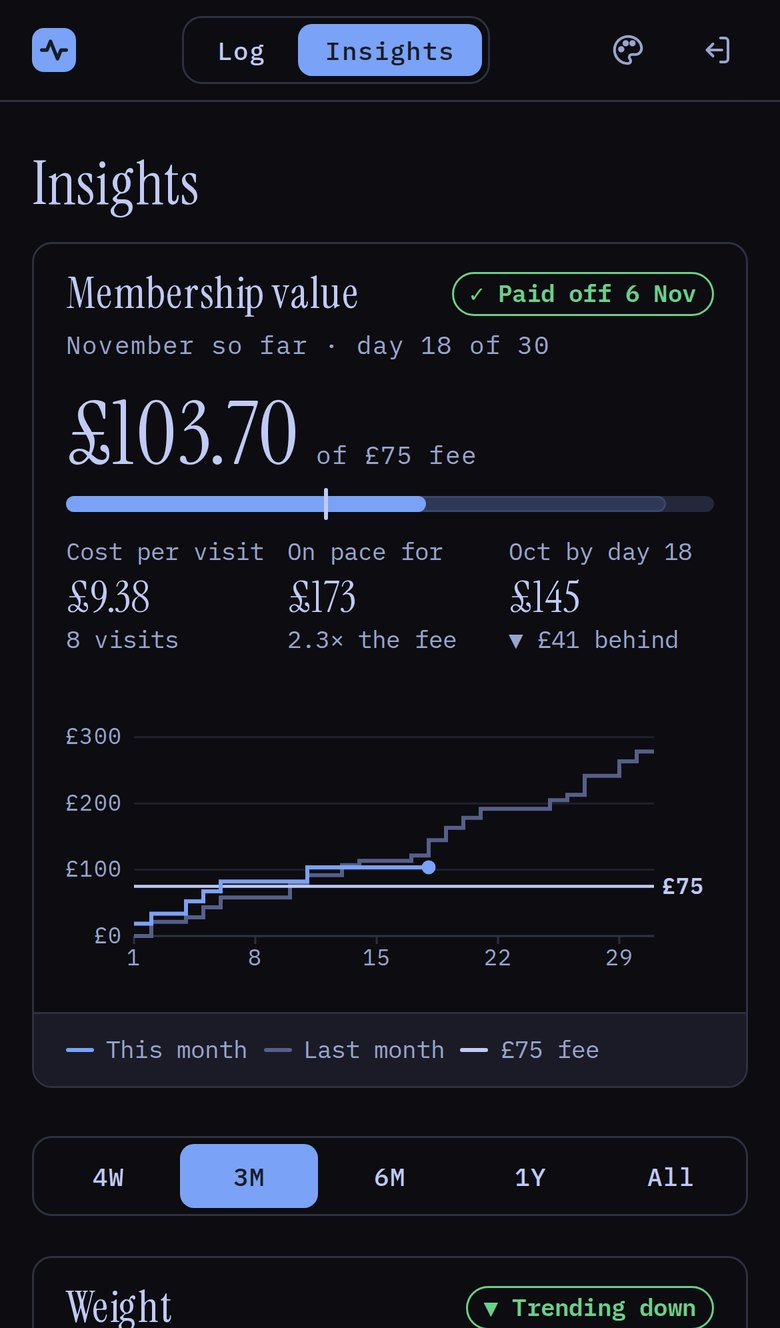
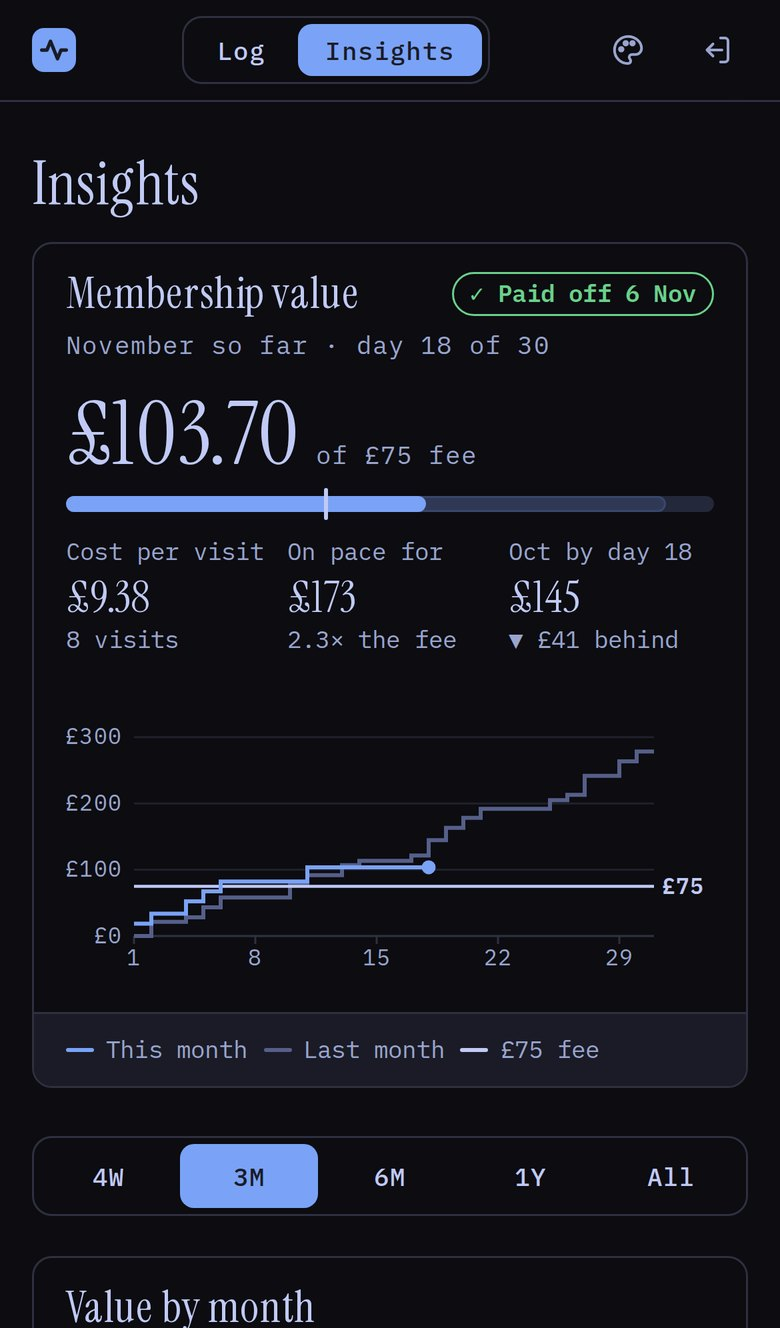
Pulseboard post: drop weight, show workout mix, value by month, and heatmap

Changed region(s): [[0.0923, 0.9571, 0.4, 1.0], [0.6154, 0.9571, 0.9231, 1.0], [0.5846, 0.988, 0.6154, 1.0]]

diff --git a/docs/posts/pulseboard/index.html b/docs/posts/pulseboard/index.html
@@ -7,7 +7,7 @@
     <link rel="preconnect" href="https://fonts.googleapis.com">
     <link rel="preconnect" href="https://fonts.gstatic.com" crossorigin>
     <link rel="stylesheet" href="https://fonts.googleapis.com/css2?family=Inter:wght@400;500;600;700&family=Inter+Tight:wght@600;700&family=JetBrains+Mono:wght@400;500&display=swap">
-    <link rel="stylesheet" href="/style.css?v=1795010357829">
+    <link rel="stylesheet" href="/style.css?v=1795010738690">
     <script type="module">
         import mermaid from "https://cdn.jsdelivr.net/npm/mermaid@11.4.1/dist/mermaid.esm.min.mjs";
 
@@ -92,28 +92,28 @@
             </header>
             <div class="post-body">
                 <p class="lede">I pay for a gym membership every month, and I wanted a straight answer to one question: am I actually getting my money's worth? So I built a small app to log every session and tell me.</p>
-<p>Pulseboard is a workout tracker made for exactly one person: me. I log a gym session, a swim, or a sauna in a couple of taps, plus the occasional weigh-in, and it shows me how much value I've had from the membership this month and how my weight is trending. It started life in June as a quick weekend project and has been rebuilt twice since, most recently with Claude Code doing most of the typing.</p>
+<p>Pulseboard is a workout tracker made for exactly one person: me. I log a gym session, a swim, or a sauna in a couple of taps, and it shows me how much value I've had from the membership this month, what mix of sessions I'm doing, and how often I actually go. It started life in June as a quick weekend project and has been rebuilt twice since, most recently with Claude Code doing most of the typing.</p>
 <div class="phones">
   <figure class="shot">
-    <img src="/images/pulseboard/log-paper.jpg" width="780" height="1328" alt="The Log screen in the Paper theme: this month's workouts, value, and weigh-ins at the top, then a form to log a new workout with buttons for each type of session and its price.">
+    <img src="/images/pulseboard/log-paper.jpg" width="780" height="1328" alt="The Log screen in the Paper theme: this month's workouts and value at the top, then a form to log a new workout with buttons for each type of session and its price.">
   </figure>
   <figure class="shot">
     <img src="/images/pulseboard/value-paper.jpg" width="780" height="922" loading="lazy" alt="The Membership value card: £103.70 of value against a £75 fee, marked as paid off on 6 November, with a chart of this month against last month.">
   </figure>
   <figure class="shot">
-    <img src="/images/pulseboard/weight-paper-night.jpg" width="780" height="1031" loading="lazy" alt="The Weight card in the dark Paper Night theme: a trend line through weekly weigh-ins, the rate per week, and an estimate of when the goal will be reached.">
+    <img src="/images/pulseboard/mix-paper-night.jpg" width="780" height="834" loading="lazy" alt="The Value by month card in the dark Paper Night theme: a stacked bar for each month split into gym, lido, pool, and sauna, with a line at the £75 fee.">
   </figure>
 </div>
-<p class="caption">Logging a session, the membership maths, and the weight trend. Every screenshot here uses made-up demo data.</p>
+<p class="caption">Logging a session, the membership maths, and the mix of sessions each month. Every screenshot here uses made-up demo data.</p>
 <h2>The idea: price every visit 💷</h2>
 <p>The trick that makes the whole thing work is giving every session a price: what it would have cost me to pay as I go. A gym visit is £15, a pool swim is £6.80, a lido swim is £6.40, and a sauna is £18.70. Add those up over a month and compare the total to the membership fee, and you get a very honest number.</p>
 <p>That turns &quot;I should go more&quot; into something I can see. The Membership value card shows how much I've had back this month, the day I paid it off, my cost per visit, and whether I'm ahead of or behind last month by the same day.</p>
-<p>The second goal is weight. Weigh-ins are noisy day to day, so the app draws a smoothed trend line through them and works out the rate per week from the last four weeks. From that it estimates when I'll hit my goal at the current pace.</p>
+<p>The other cards look at the longer run. Value by month stacks each month's sessions by type, so I can see the mix shift between gym, pool, lido, and sauna, with a line at the fee. Month by month adds visits, cost per visit, and how many days I was active, and a heatmap shows every day of the last few months at a glance.</p>
 <h2>Version one: quick, public, and slow 🐌</h2>
 <p>The first version was a FastAPI app with a Supabase database, charts drawn with Plotly, and hosting on Vercel's free tier. It did the job, but it had two problems:</p>
 <ul>
 <li><strong>It was slow to wake up.</strong> Vercel runs apps like this as serverless functions, so after a quiet spell the first visit took about eight seconds. That's a long time to stand at a gym reception holding your phone.</li>
-<li><strong>It had no sign-in.</strong> Anyone with the address could see my data, which for health data isn't great.</li>
+<li><strong>It had no sign-in.</strong> Anyone with the address could see my data, which for personal data isn't great.</li>
 </ul>
 <h2>Moving it onto my own server 🖥</h2>
 <p>I already run a small server for my notes app: a free virtual machine on Oracle Cloud's Always Free tier, with two ARM cores and 12 GB of memory. So Pulseboard moved in next door.</p>
@@ -172,7 +172,7 @@
   </figure>
 </div>
 <h2>Next: the Oura ring 💍</h2>
-<p>We've ordered an Oura ring and we're waiting for it to arrive. Once it does, I want Pulseboard to pull in my daily numbers from Oura's official API, so they sit next to my workouts:</p>
+<p>I've ordered an Oura ring and I'm waiting for it to arrive. Once it does, I want Pulseboard to pull in my daily numbers from Oura's official API, so they sit next to my workouts:</p>
 <ul>
 <li><strong>A Today screen</strong> with my readiness score and a simple suggestion, like &quot;good day to push&quot; or &quot;take it easy&quot;.</li>
 <li><strong>Sleep, HRV, and resting heart rate</strong>, so I can see how training and recovery line up over time.</li>
@@ -191,6 +191,6 @@
 
     <footer class="site-footer wrap">Built with Eleventy. Hosted on GitHub Pages.</footer>
 
-    <script src="/script.js?v=1795010357829"></script>
+    <script src="/script.js?v=1795010738690"></script>
 </body>
 </html>

diff --git a/docs/python-visualiser/index.html b/docs/python-visualiser/index.html
@@ -7,7 +7,7 @@
     <link rel="preconnect" href="https://fonts.googleapis.com">
     <link rel="preconnect" href="https://fonts.gstatic.com" crossorigin>
     <link rel="stylesheet" href="https://fonts.googleapis.com/css2?family=Inter:wght@400;500;600;700&family=Inter+Tight:wght@600;700&family=JetBrains+Mono:wght@400;500&display=swap">
-    <link rel="stylesheet" href="/style.css?v=1795010357829">
+    <link rel="stylesheet" href="/style.css?v=1795010738690">
     <script type="module">
         import mermaid from "https://cdn.jsdelivr.net/npm/mermaid@11.4.1/dist/mermaid.esm.min.mjs";
 
@@ -139,13 +139,13 @@
 </section>
 
 <script src="https://cdn.jsdelivr.net/pyodide/v0.26.4/full/pyodide.js"></script>
-<script src="/visualiser.js?v=1795010357829"></script>
+<script src="/visualiser.js?v=1795010738690"></script>
 
     
     </main>
 
     <footer class="site-footer wrap wrap-wide">Built with Eleventy. Hosted on GitHub Pages.</footer>
 
-    <script src="/script.js?v=1795010357829"></script>
+    <script src="/script.js?v=1795010738690"></script>
 </body>
 </html>

diff --git a/docs/posts/building-control-room/index.html b/docs/posts/building-control-room/index.html
@@ -7,7 +7,7 @@
     <link rel="preconnect" href="https://fonts.googleapis.com">
     <link rel="preconnect" href="https://fonts.gstatic.com" crossorigin>
     <link rel="stylesheet" href="https://fonts.googleapis.com/css2?family=Inter:wght@400;500;600;700&family=Inter+Tight:wght@600;700&family=JetBrains+Mono:wght@400;500&display=swap">
-    <link rel="stylesheet" href="/style.css?v=1795010357829">
+    <link rel="stylesheet" href="/style.css?v=1795010738690">
     <script type="module">
         import mermaid from "https://cdn.jsdelivr.net/npm/mermaid@11.4.1/dist/mermaid.esm.min.mjs";
 
@@ -301,6 +301,6 @@ document.querySelectorAll('.theme-gallery').forEach(function (g) {
 
     <footer class="site-footer wrap">Built with Eleventy. Hosted on GitHub Pages.</footer>
 
-    <script src="/script.js?v=1795010357829"></script>
+    <script src="/script.js?v=1795010738690"></script>
 </body>
 </html>

diff --git a/docs/index.html b/docs/index.html
@@ -7,7 +7,7 @@
     <link rel="preconnect" href="https://fonts.googleapis.com">
     <link rel="preconnect" href="https://fonts.gstatic.com" crossorigin>
     <link rel="stylesheet" href="https://fonts.googleapis.com/css2?family=Inter:wght@400;500;600;700&family=Inter+Tight:wght@600;700&family=JetBrains+Mono:wght@400;500&display=swap">
-    <link rel="stylesheet" href="/style.css?v=1795010357829">
+    <link rel="stylesheet" href="/style.css?v=1795010738690">
     <script type="module">
         import mermaid from "https://cdn.jsdelivr.net/npm/mermaid@11.4.1/dist/mermaid.esm.min.mjs";
 
@@ -157,6 +157,6 @@
 
     <footer class="site-footer wrap">Built with Eleventy. Hosted on GitHub Pages.</footer>
 
-    <script src="/script.js?v=1795010357829"></script>
+    <script src="/script.js?v=1795010738690"></script>
 </body>
 </html>

diff --git a/docs/posts/metric-trees/index.html b/docs/posts/metric-trees/index.html
@@ -7,7 +7,7 @@
     <link rel="preconnect" href="https://fonts.googleapis.com">
     <link rel="preconnect" href="https://fonts.gstatic.com" crossorigin>
     <link rel="stylesheet" href="https://fonts.googleapis.com/css2?family=Inter:wght@400;500;600;700&family=Inter+Tight:wght@600;700&family=JetBrains+Mono:wght@400;500&display=swap">
-    <link rel="stylesheet" href="/style.css?v=1795010357829">
+    <link rel="stylesheet" href="/style.css?v=1795010738690">
     <script type="module">
         import mermaid from "https://cdn.jsdelivr.net/npm/mermaid@11.4.1/dist/mermaid.esm.min.mjs";
 
@@ -189,6 +189,6 @@
 
     <footer class="site-footer wrap">Built with Eleventy. Hosted on GitHub Pages.</footer>
 
-    <script src="/script.js?v=1795010357829"></script>
+    <script src="/script.js?v=1795010738690"></script>
 </body>
 </html>

diff --git a/docs/posts/week-one-porto/index.html b/docs/posts/week-one-porto/index.html
@@ -7,7 +7,7 @@
     <link rel="preconnect" href="https://fonts.googleapis.com">
     <link rel="preconnect" href="https://fonts.gstatic.com" crossorigin>
     <link rel="stylesheet" href="https://fonts.googleapis.com/css2?family=Inter:wght@400;500;600;700&family=Inter+Tight:wght@600;700&family=JetBrains+Mono:wght@400;500&display=swap">
-    <link rel="stylesheet" href="/style.css?v=1795010357829">
+    <link rel="stylesheet" href="/style.css?v=1795010738690">
     <script type="module">
         import mermaid from "https://cdn.jsdelivr.net/npm/mermaid@11.4.1/dist/mermaid.esm.min.mjs";
 
@@ -146,6 +146,6 @@
 
     <footer class="site-footer wrap">Built with Eleventy. Hosted on GitHub Pages.</footer>
 
-    <script src="/script.js?v=1795010357829"></script>
+    <script src="/script.js?v=1795010738690"></script>
 </body>
 </html>

diff --git a/docs/posts/week-three-lisbon/index.html b/docs/posts/week-three-lisbon/index.html
@@ -7,7 +7,7 @@
     <link rel="preconnect" href="https://fonts.googleapis.com">
     <link rel="preconnect" href="https://fonts.gstatic.com" crossorigin>
     <link rel="stylesheet" href="https://fonts.googleapis.com/css2?family=Inter:wght@400;500;600;700&family=Inter+Tight:wght@600;700&family=JetBrains+Mono:wght@400;500&display=swap">
-    <link rel="stylesheet" href="/style.css?v=1795010357829">
+    <link rel="stylesheet" href="/style.css?v=1795010738690">
     <script type="module">
         import mermaid from "https://cdn.jsdelivr.net/npm/mermaid@11.4.1/dist/mermaid.esm.min.mjs";
 
@@ -101,6 +101,6 @@
 
     <footer class="site-footer wrap">Built with Eleventy. Hosted on GitHub Pages.</footer>
 
-    <script src="/script.js?v=1795010357829"></script>
+    <script src="/script.js?v=1795010738690"></script>
 </body>
 </html>

diff --git a/docs/posts/week-two-coimbra/index.html b/docs/posts/week-two-coimbra/index.html
@@ -7,7 +7,7 @@
     <link rel="preconnect" href="https://fonts.googleapis.com">
     <link rel="preconnect" href="https://fonts.gstatic.com" crossorigin>
     <link rel="stylesheet" href="https://fonts.googleapis.com/css2?family=Inter:wght@400;500;600;700&family=Inter+Tight:wght@600;700&family=JetBrains+Mono:wght@400;500&display=swap">
-    <link rel="stylesheet" href="/style.css?v=1795010357829">
+    <link rel="stylesheet" href="/style.css?v=1795010738690">
     <script type="module">
         import mermaid from "https://cdn.jsdelivr.net/npm/mermaid@11.4.1/dist/mermaid.esm.min.mjs";
 
@@ -146,6 +146,6 @@
 
     <footer class="site-footer wrap">Built with Eleventy. Hosted on GitHub Pages.</footer>
 
-    <script src="/script.js?v=1795010357829"></script>
+    <script src="/script.js?v=1795010738690"></script>
 </body>
 </html>

diff --git a/docs/posts/window-functions/index.html b/docs/posts/window-functions/index.html
@@ -7,7 +7,7 @@
     <link rel="preconnect" href="https://fonts.googleapis.com">
     <link rel="preconnect" href="https://fonts.gstatic.com" crossorigin>
     <link rel="stylesheet" href="https://fonts.googleapis.com/css2?family=Inter:wght@400;500;600;700&family=Inter+Tight:wght@600;700&family=JetBrains+Mono:wght@400;500&display=swap">
-    <link rel="stylesheet" href="/style.css?v=1795010357829">
+    <link rel="stylesheet" href="/style.css?v=1795010738690">
     <script type="module">
         import mermaid from "https://cdn.jsdelivr.net/npm/mermaid@11.4.1/dist/mermaid.esm.min.mjs";
 
@@ -750,6 +750,6 @@
 
     <footer class="site-footer wrap">Built with Eleventy. Hosted on GitHub Pages.</footer>
 
-    <script src="/script.js?v=1795010357829"></script>
+    <script src="/script.js?v=1795010738690"></script>
 </body>
 </html>

diff --git a/docs/tags/data-concepts/index.html b/docs/tags/data-concepts/index.html
@@ -7,7 +7,7 @@
     <link rel="preconnect" href="https://fonts.googleapis.com">
     <link rel="preconnect" href="https://fonts.gstatic.com" crossorigin>
     <link rel="stylesheet" href="https://fonts.googleapis.com/css2?family=Inter:wght@400;500;600;700&family=Inter+Tight:wght@600;700&family=JetBrains+Mono:wght@400;500&display=swap">
-    <link rel="stylesheet" href="/style.css?v=1795010357829">
+    <link rel="stylesheet" href="/style.css?v=1795010738690">
     <script type="module">
         import mermaid from "https://cdn.jsdelivr.net/npm/mermaid@11.4.1/dist/mermaid.esm.min.mjs";
 
@@ -102,6 +102,6 @@
 
     <footer class="site-footer wrap">Built with Eleventy. Hosted on GitHub Pages.</footer>
 
-    <script src="/script.js?v=1795010357829"></script>
+    <script src="/script.js?v=1795010738690"></script>
 </body>
 </html>

diff --git a/docs/tags/projects/index.html b/docs/tags/projects/index.html
@@ -7,7 +7,7 @@
     <link rel="preconnect" href="https://fonts.googleapis.com">
     <link rel="preconnect" href="https://fonts.gstatic.com" crossorigin>
     <link rel="stylesheet" href="https://fonts.googleapis.com/css2?family=Inter:wght@400;500;600;700&family=Inter+Tight:wght@600;700&family=JetBrains+Mono:wght@400;500&display=swap">
-    <link rel="stylesheet" href="/style.css?v=1795010357829">
+    <link rel="stylesheet" href="/style.css?v=1795010738690">
     <script type="module">
         import mermaid from "https://cdn.jsdelivr.net/npm/mermaid@11.4.1/dist/mermaid.esm.min.mjs";
 
@@ -109,6 +109,6 @@
 
     <footer class="site-footer wrap">Built with Eleventy. Hosted on GitHub Pages.</footer>
 
-    <script src="/script.js?v=1795010357829"></script>
+    <script src="/script.js?v=1795010738690"></script>
 </body>
 </html>

diff --git a/docs/tags/sql/index.html b/docs/tags/sql/index.html
@@ -7,7 +7,7 @@
     <link rel="preconnect" href="https://fonts.googleapis.com">
     <link rel="preconnect" href="https://fonts.gstatic.com" crossorigin>
     <link rel="stylesheet" href="https://fonts.googleapis.com/css2?family=Inter:wght@400;500;600;700&family=Inter+Tight:wght@600;700&family=JetBrains+Mono:wght@400;500&display=swap">
-    <link rel="stylesheet" href="/style.css?v=1795010357829">
+    <link rel="stylesheet" href="/style.css?v=1795010738690">
     <script type="module">
         import mermaid from "https://cdn.jsdelivr.net/npm/mermaid@11.4.1/dist/mermaid.esm.min.mjs";
 
@@ -102,6 +102,6 @@
 
     <footer class="site-footer wrap">Built with Eleventy. Hosted on GitHub Pages.</footer>
 
-    <script src="/script.js?v=1795010357829"></script>
+    <script src="/script.js?v=1795010738690"></script>
 </body>
 </html>
